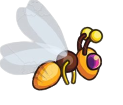
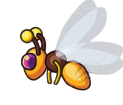
enemies facing the correct way

diff --git a/src/main/java/entities/Orange.java b/src/main/java/entities/Orange.java
@@ -1,0 +1,36 @@
+package entities;
+
+import utilz.LoadSave;
+
+import java.awt.*;
+import java.awt.image.BufferedImage;
+
+public class Orange extends Enemy {
+
+    BufferedImage image;
+
+    public Orange(float x, float y, int height, int width) {
+        super(x, y, height, width);
+        assignImage();
+        initHitbox(x, y, width, height);
+        initHitbox(x, y, width, height);
+    }
+
+    private void assignImage() {
+        image = LoadSave.GetSpriteAtlas(LoadSave.ENEMY_BEE);
+    }
+
+
+    public void render(Graphics g) {
+        g.drawImage(image, (int) x, (int) y, width, height, null);
+        drawHitbox(g);
+    }
+
+    @Override
+    public void update() {
+    }
+
+    public float getX() {
+        return x;
+    }
+}

diff --git a/src/main/java/utilz/LoadSave.java b/src/main/java/utilz/LoadSave.java
@@ -23,6 +23,7 @@ public class LoadSave {
     public static final String ENEMY_RED = "enemies/red.png";
     public static final String ENEMY_ROBOT = "enemies/robot.png";
     public static final String ENEMY_YELLOW = "enemies/yellow.png";
+    public static final String ENEMY_ORANGE = "enemies/orange.png";
 
 
     public static BufferedImage GetSpriteAtlas(String fileName) {
